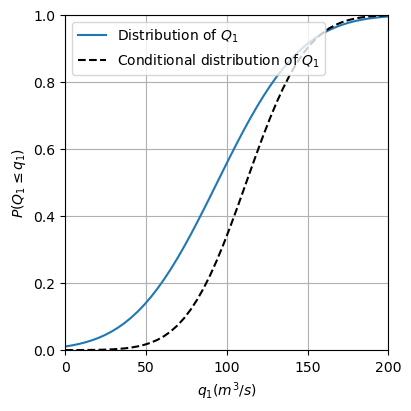
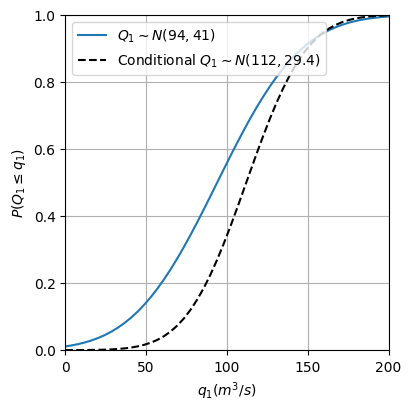
page 3 ch 8: finalized

diff --git a/book/multivariate/gaussian.md b/book/multivariate/gaussian.md
@@ -94,7 +94,7 @@ The figure below displays the difference between the univariate distribution of 
 ---
 
 ---
-Bivariate Gaussian distribution: (left) probability density function, and (right) cumulative distribution function.
+Distribution of $Q_1$ and conditional distribution of $Q_1$ given $Q_2$. .
 ```
 ## From 2D to 3D: multivariate margins
 
@@ -131,7 +131,23 @@ $$
 
 We can see that the means of the random variables $Q_1$ and $Q_2$ have increased while $Cov(Q_1, Q_2)$ has been reduced from 1000 to 661.2. The figure below displays the difference between the univariate distributions of $Q_1$ and $Q_2$ without and with conditionalizing.
 
-We can also compare the bivariate Gaussian distribution of $Q_1$ and $Q_2$ without and with the conditionalization, as shown in the Figure below.
+```{figure} ./figures/mult_univ_comp.png
+
+---
+
+---
+Unconditional and conditional Gaussian distributions given $P$: (left) $Q_1$, and (right) $Q_2$.
+```
+
+We can also compare the bivariate Gaussian distribution of $Q_1$ and $Q_2$ without and with the conditionalization, as shown in the Figure below. You can see how the mode of the distribution (point of maximum density) has moved towards the upper right side of the plot and become slightly narrower  when conditionalizing.
+
+```{figure} ./figures/mult_cond_bi.png
+
+---
+
+---
+Unconditional and conditional bivariate Gaussian distributions for $Q_1$ and $Q_2$. Same density contours are plotted for both distributions.
+```
 
 ## Extra material: a video
 
